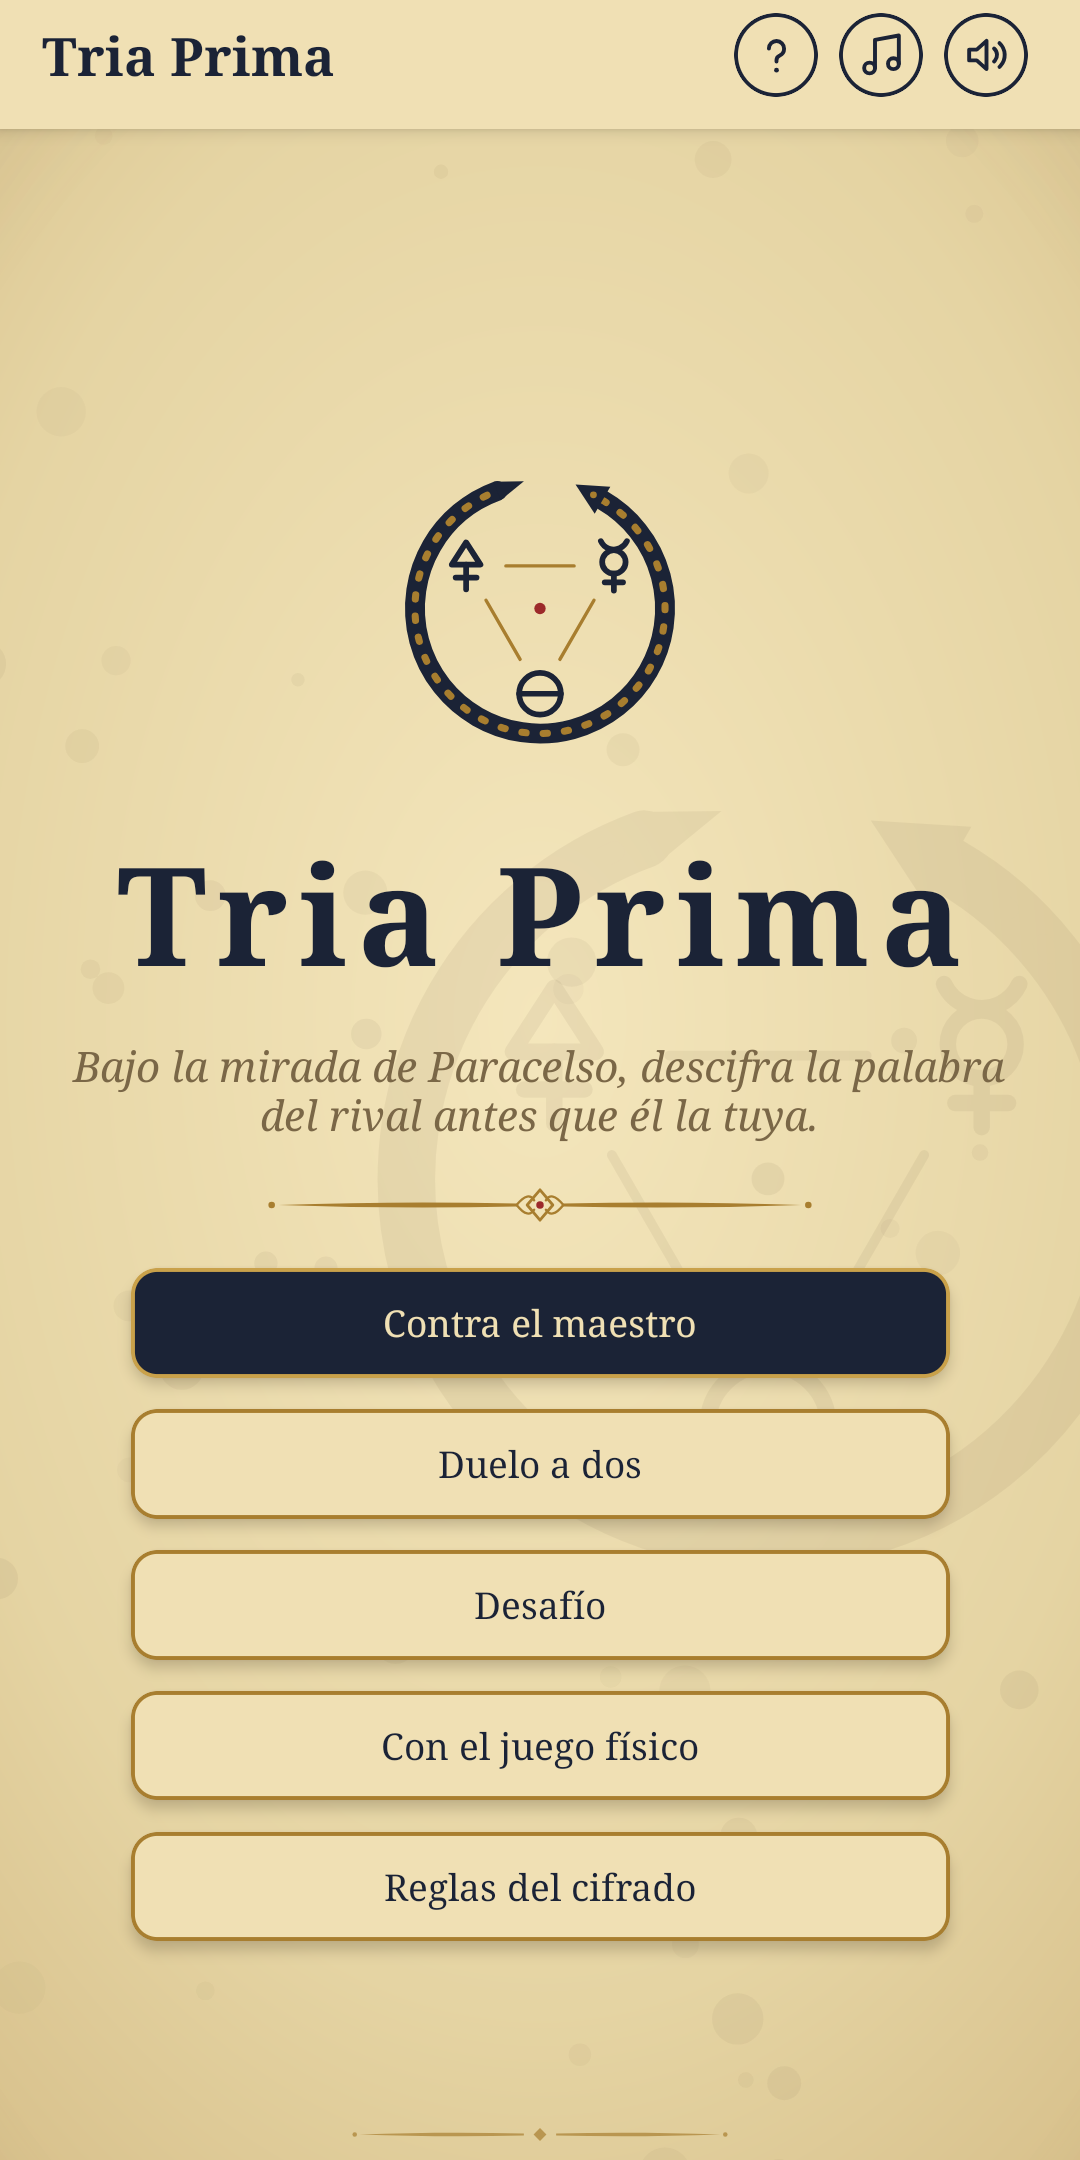
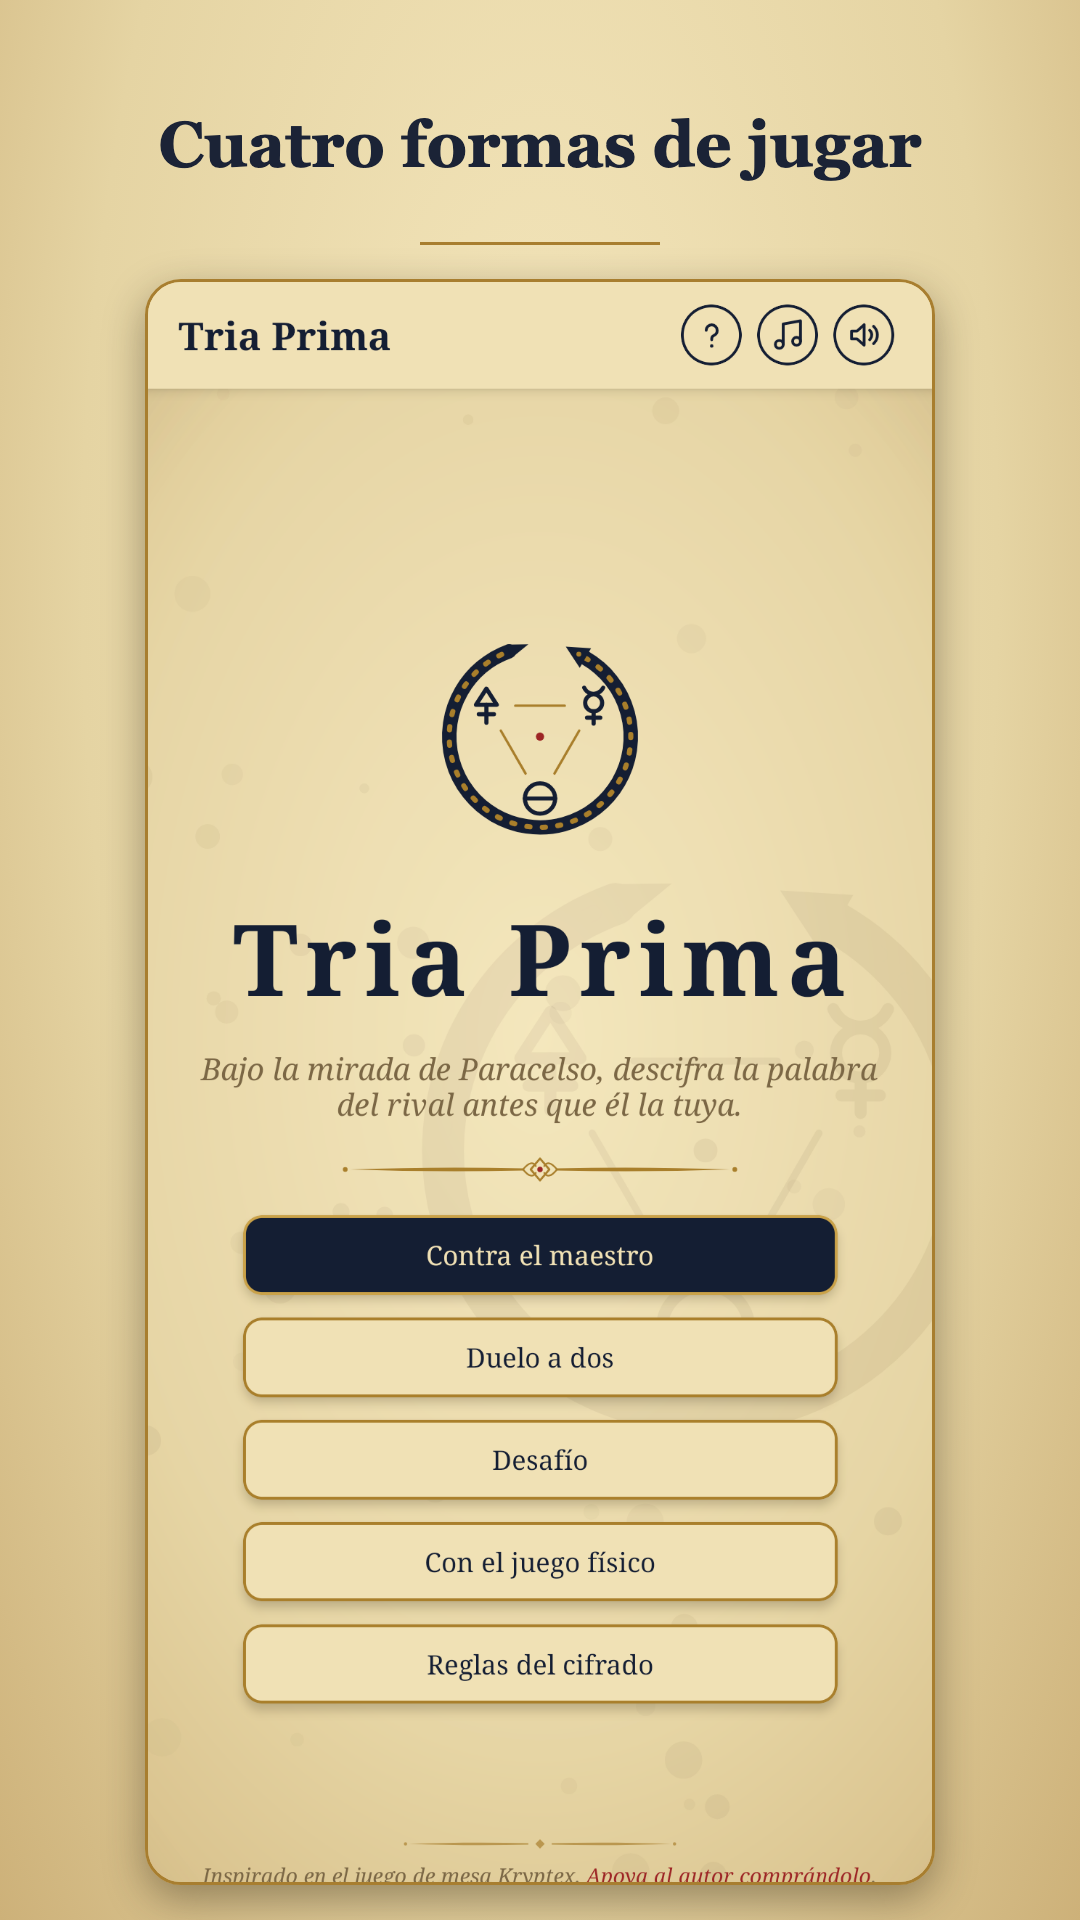
Capturas de la ficha en 9:16 con titular

diff --git a/store/graphics/screenshot-frame.html b/store/graphics/screenshot-frame.html
@@ -1,0 +1,9 @@
+<!doctype html><html><head><meta charset="utf-8"><style>
+html,body{margin:0;width:1080px;height:1920px;overflow:hidden}
+body{background:radial-gradient(ellipse at 50% 30%,#F4E6BC 0%,#E5D4A3 60%,#CDB179 100%);font-family:Georgia,serif;color:#1B2336;text-align:center}
+h1{font-size:64px;line-height:1.15;margin:70px 70px 0;font-weight:700;height:150px;display:flex;align-items:center;justify-content:center}
+.rule{width:240px;height:3px;background:#A87E2F;margin:22px auto 34px}
+img{height:1600px;border-radius:36px;box-shadow:0 14px 40px rgba(43,32,16,.4);border:3px solid #A87E2F}
+</style></head><body><h1 id="t"></h1><div class="rule"></div><img id="i"><script>
+const q=new URLSearchParams(location.search);document.getElementById('t').textContent=q.get('t');document.getElementById('i').src=q.get('i');
+</script></body></html>

diff --git a/store/google-play.md b/store/google-play.md
@@ -48,7 +48,7 @@ Recomendado: 13 años o más (evita aplicar la política de familias, que exige 
 ## Recursos gráficos pendientes
 - Icono 512×512: `store/graphics/icon-512.png`.
 - Gráfico destacado 1024×500: `store/graphics/feature-1024x500.jpg` (fuente en `feature.html`, se renderiza con Chrome headless).
-- Capturas de teléfono (1080×2160, Pixel 8 sin barras del sistema): `store/graphics/screenshots/`.
+- Capturas de teléfono 9:16 (1080×1920), enmarcadas con un titular (`screenshot-frame.html`, Chrome headless): `store/graphics/screenshots/`.
 
 ## Firma
 La clave de subida ya existe: `~/keys/tria-prima-upload.jks` (alias `tria-prima`), con las contraseñas en `~/.gradle/gradle.properties`. Ambos fuera del repo; guardar copia de seguridad.
